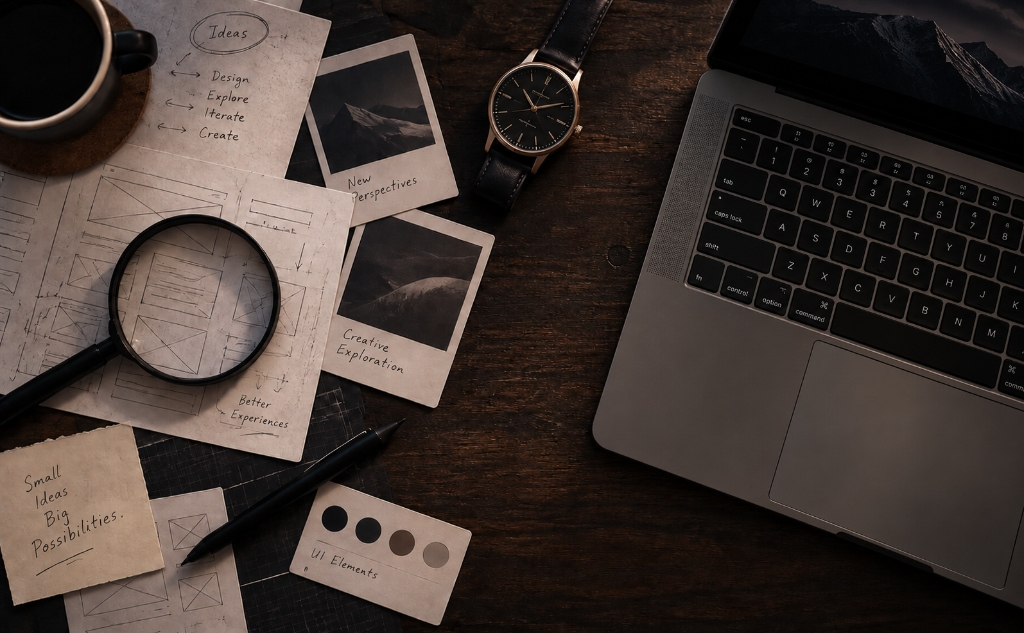
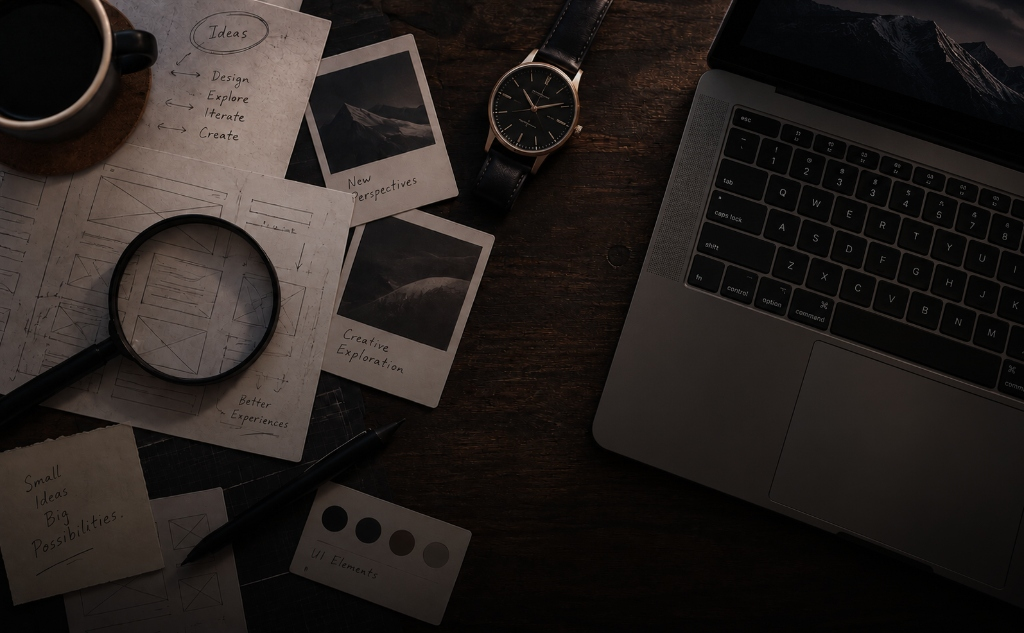
Update personal-exploration.jpg with deeper moody lighting

diff --git a/index.html b/index.html
@@ -1748,14 +1748,6 @@
       overflow: hidden;
     }
 
-    .works__project-placeholder--3::after {
-      display: none !important;
-    }
-
-    .works__project-container--3 .works__project-overlay {
-      display: none;
-    }
-
     .works__project-img {
       width: 100%;
       height: 100%;
@@ -2843,6 +2835,15 @@
       <a href="personal-exploration.html" class="works__project-container works__project-container--3" id="project-card-3" data-project="3" aria-label="Open Project 03: EXPLORING IDEAS BEYOND THE BRIEF.">
         <div class="works__project-placeholder works__project-placeholder--3">
           <img src="personal-exploration.jpg" alt="Personal Exploration — Exploring Ideas Beyond the Brief" class="works__project-img" loading="lazy" />
+        </div>
+        <div class="works__project-overlay">
+          <span class="works__project-category">PERSONAL EXPLORATION</span>
+          <h3 class="works__project-title">EXPLORING IDEAS<br>BEYOND THE BRIEF.</h3>
+          <p class="works__project-desc">Self-initiated projects exploring different visual directions, interactions, and experiences.</p>
+          <div class="works__project-tags">
+            <span class="works__project-tag">WEB EXPLORATION</span>
+            <span class="works__project-tag">PERSONAL</span>
+          </div>
         </div>
       </a>
 
